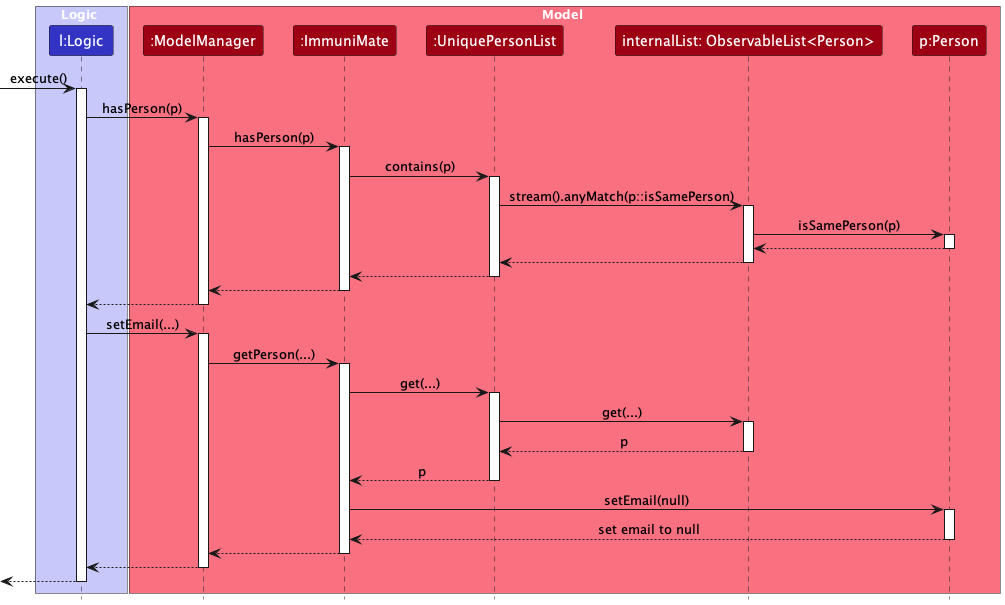
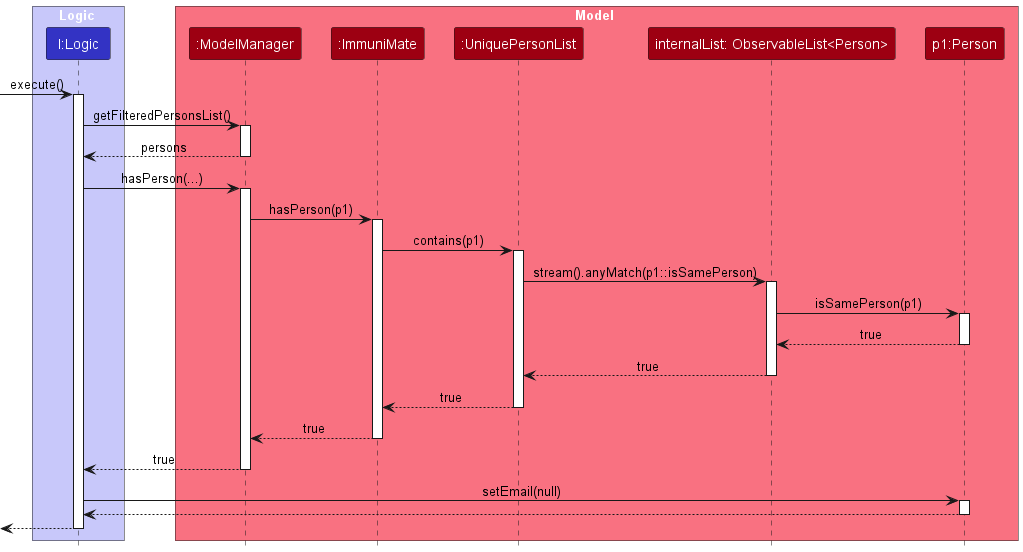
Edit diagram for deleteinfo command

Changed region(s): [[0.0, 0.0, 0.9871, 0.9855], [0.802, 0.5236, 0.8945, 0.6159], [0.9254, 0.5543, 0.9562, 0.6467]]

diff --git a/docs/DeveloperGuide.md b/docs/DeveloperGuide.md
@@ -633,7 +633,7 @@ Quality requirements:
 17. **Cluster**: A group of patients who are infected by the same disease.
 18. **Patient Visit**: A record of a patient's one specific visit to the clinic, including the date of visit, symptoms, diagnosis, and status.
 19. **Patient History**: A collection of all the visits by a patient.
-20. **Patient Record**: A collection of all the information about a patient, including the patient's name, NRIC, phone number, address, email, country.
+20. **Patient Record**: A collection of all the information about a patient, including the patient's name, `Nric`, `Phone`, `Address`, `Email`, `Country`.
 
 --------------------------------------------------------------------------------------------------------------------
 
@@ -754,6 +754,7 @@ testers are expected to do more *exploratory* testing.
        1. The person with NRIC `S1234567A` exists in the system.
     1. Test case: `deleteinfo S1234567A n/`<br>
        Expected: The person's name is not deleted. The result panel shows an error message, indicating that the name field cannot be deleted.
+
 ### Saving data
 
 1. Dealing with missing/corrupted data files
@@ -764,5 +765,9 @@ testers are expected to do more *exploratory* testing.
 
 ## Planned enhancements
 **Include FIN as accepted values for field `NRIC`**: The field `NRIC` should accept `F`, `M` and `G` as valid values, as they are valid first characters for foreigners' FIN (foreign identification number).
-**Make `email` case-insensitive**: The field `Email` should be case-insensitive, as emails are not case-sensitive in practice.
-**Limit `country` to a list of valid countries**: The field `country` should be limited to a list of countries, to prevent invalid entries.
+
+**Allow `Name` to take special characters**: The field `Name` should be able to accommodate names with special characters such as dashes, slashes, apostrophes etc.
+
+**Limit `Country` to a list of valid countries**: The field `Country` should be limited to a list of countries, to prevent invalid entries.
+
+**Make `Email` case-insensitive**: The field `Email` should be case-insensitive, as emails are not case-sensitive in practice.
